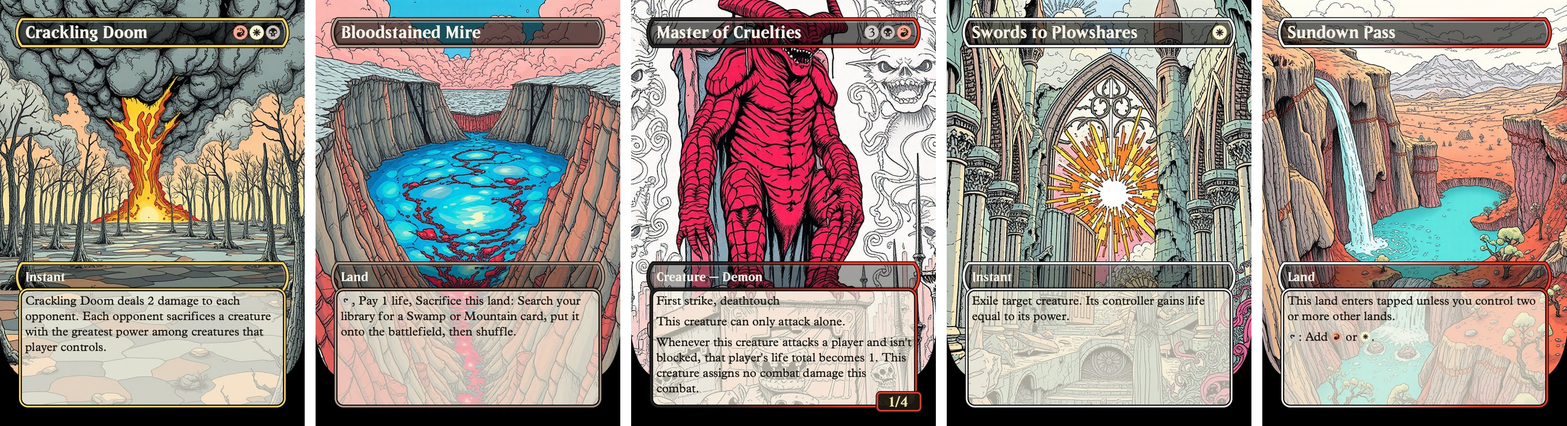
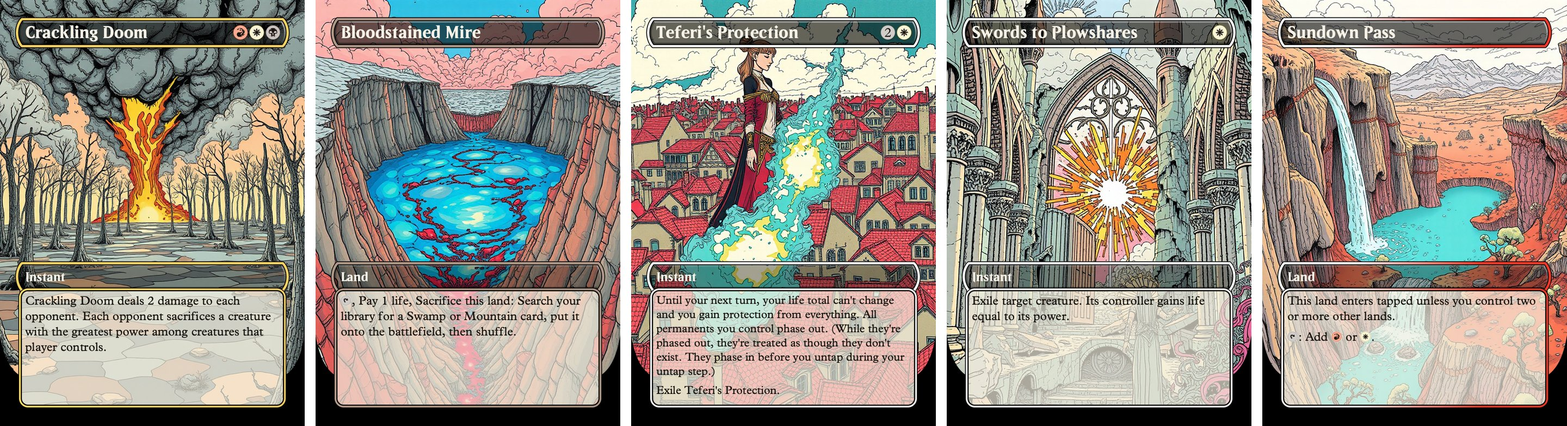
docs(readme): Teferi's Protection replaces Master of Cruelties in the fine-line strip
Claude-Session: https://claude.ai/code/session_01CL91K3Fs5QZTnbko5qqosT

Changed region(s): [[0.375, 0.0, 0.625, 0.9796]]

diff --git a/README.md b/README.md
@@ -37,7 +37,7 @@ In the app: click **Import** and paste your decklist, add three to five referenc
   <source media="(prefers-color-scheme: dark)" srcset="docs/images/samples-fineline-dark.jpg">
   <img alt="Fine-line ink illustration style — five generated cards" src="docs/images/samples-fineline.jpg">
 </picture></p>
-<p align="center"><em>Fine-line ink — teal, coral and gold on parchment: a pillar of fire in a dead wood, a blood-veined sinkhole, a demon in red, a sunburst through a ruined nave, a canyon at sundown</em></p>
+<p align="center"><em>Fine-line ink — teal, coral and gold on parchment: a pillar of fire in a dead wood, a blood-veined sinkhole, a mage phasing out above the rooftops, a sunburst through a ruined nave, a canyon at sundown</em></p>
 
 <p align="center"><picture>
   <source media="(prefers-color-scheme: dark)" srcset="docs/images/samples-picturebook-dark.jpg">
